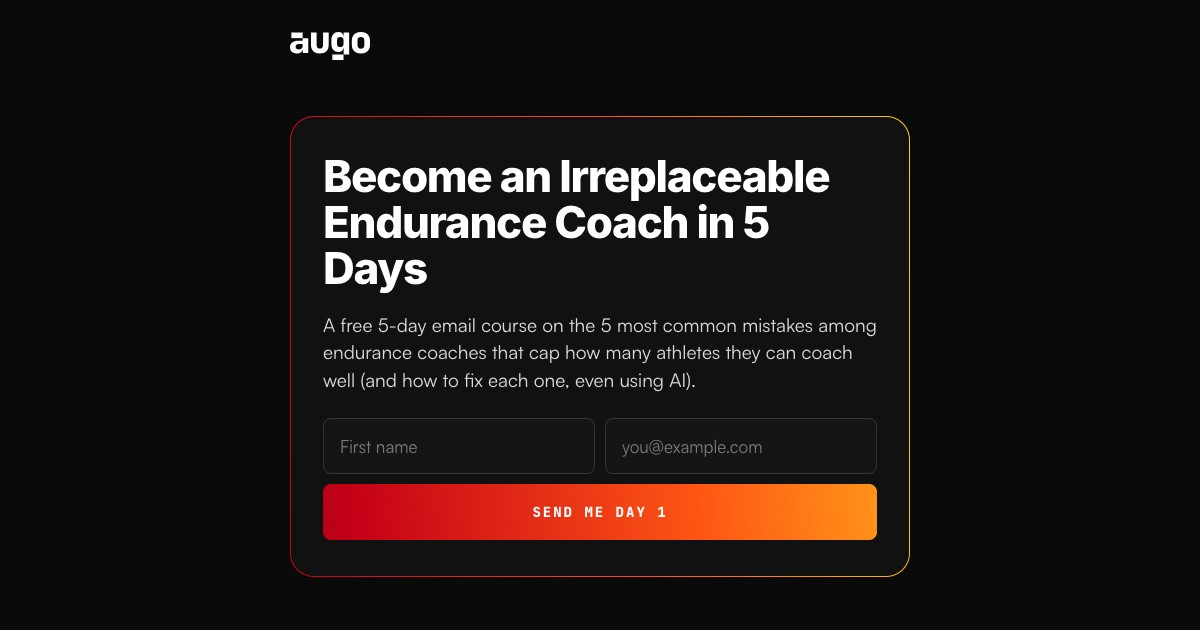
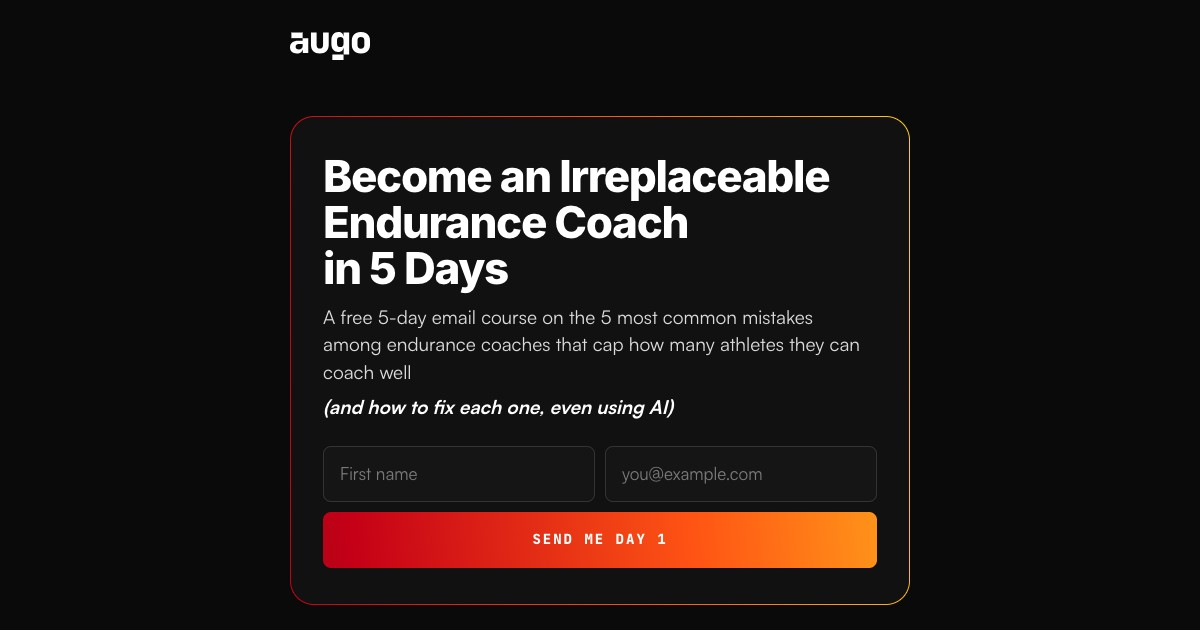
feat(course): set the headline in fixed lines and split the subtitle
The rotating sport made "Endurance" take one more line than Running,
Cycling or Triathlon, and since the h1 holds its tallest height to stop
the page jumping, the shorter words left an empty line under the title.
The headline is now three set lines ("Become an Irreplaceable" /
"<sport> Coach" / "in 5 Days"), so every word takes the same number of
lines at every width from 320px to 1440px. On very narrow phones the
size clamps down (26-32px) so "Endurance Coach" still fits one line.
Spaces sit between the line spans so the page text still reads as one
sentence to crawlers.

The subtitle sits closer to the title, and its parenthetical, "(and how
to fix each one, even using AI)", moves to its own line in bold italic.
`COPY.subtitle` still joins the two for the Course schema. The subtitle
wraps with text-wrap: pretty, so it does not end on a lone word.

Share card regenerated for the new layout.

diff --git a/src/pages/CoachCourse.tsx b/src/pages/CoachCourse.tsx
@@ -62,14 +62,27 @@ export default function CoachCourse() {
                     <div className="course-card rounded-[24px] px-5 py-6 sm:px-8 sm:py-9">
                         <h1
                             aria-label={COPY.title}
-                            className="m-0 font-sans text-[32px] sm:text-[44px] font-extrabold leading-[1.05] tracking-[-0.03em] text-white"
+                            className="m-0 font-sans text-[clamp(26px,8.5vw,32px)] sm:text-[44px] font-extrabold leading-[1.05] tracking-[-0.03em] text-white"
                         >
                             <span aria-hidden="true">
-                                {COPY.titleParts.before} <RotatingSport /> {COPY.titleParts.after}
+                                {/* Three set lines, with the sport and "Coach" held
+                                    together on the middle one. Every word then
+                                    takes the same number of lines, so the headline
+                                    keeps one height as it rotates. The phone size
+                                    shrinks on very narrow screens so "Endurance
+                                    Coach", the longest, still fits one line. */}
+                                <span className="block">{COPY.titleParts.before}</span>{' '}
+                                <span className="block whitespace-nowrap">
+                                    <RotatingSport /> {COPY.titleParts.coach}
+                                </span>{' '}
+                                <span className="block">{COPY.titleParts.after}</span>
                             </span>
                         </h1>
-                        <p className="mt-5 font-satoshi text-[17px] sm:text-[19px] leading-[1.45] text-white/85">
-                            {COPY.subtitle}
+                        <p className="mt-3 font-satoshi text-[17px] sm:text-[19px] leading-[1.45] text-pretty text-white/85">
+                            {COPY.subtitleLead}
+                        </p>
+                        <p className="mt-2 font-satoshi text-[17px] sm:text-[19px] font-bold italic leading-[1.45] text-white">
+                            {COPY.subtitleAside}
                         </p>
                         {optIn('hero')}
                     </div>

diff --git a/src/components/coachCourse/constants.ts b/src/components/coachCourse/constants.ts
@@ -50,10 +50,17 @@ export const COPY = {
     titleParts: {
         before: 'Become an Irreplaceable',
         words: ['Endurance', 'Running', 'Cycling', 'Triathlon'],
-        after: 'Coach in 5 Days',
+        coach: 'Coach',
+        after: 'in 5 Days',
     },
-    subtitle:
-        'A free 5-day email course on the 5 most common mistakes among endurance coaches that cap how many athletes they can coach well (and how to fix each one, even using AI).',
+    /** Shown as two lines: the sentence, then the aside in bold italic on its
+     *  own line. `subtitle` joins them back up for the Course schema. */
+    subtitleLead:
+        'A free 5-day email course on the 5 most common mistakes among endurance coaches that cap how many athletes they can coach well',
+    subtitleAside: '(and how to fix each one, even using AI)',
+    get subtitle() {
+        return `${this.subtitleLead} ${this.subtitleAside}.`
+    },
     get: {
         title: "What You'll Get:",
         items: [
